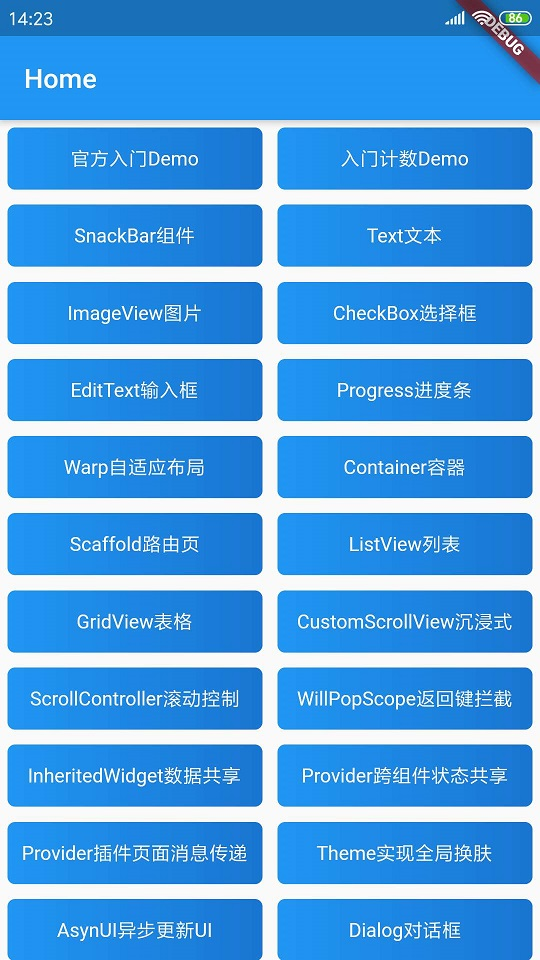
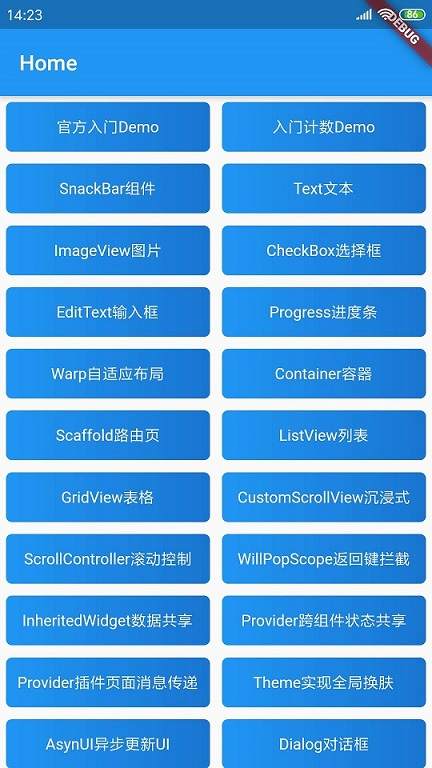
fix

diff --git a/README.md b/README.md
@@ -2,4 +2,8 @@
 
 [《Flutter实战》](https://book.flutterchina.club)学习Demo代码。  
 
+### 截图
+
+![111](https://raw.githubusercontent.com/FlutterDeMon/flutter_demo/master/screen/1.jpg)  
+![222](https://raw.githubusercontent.com/FlutterDeMon/flutter_demo/master/screen/2.jpg)
 
